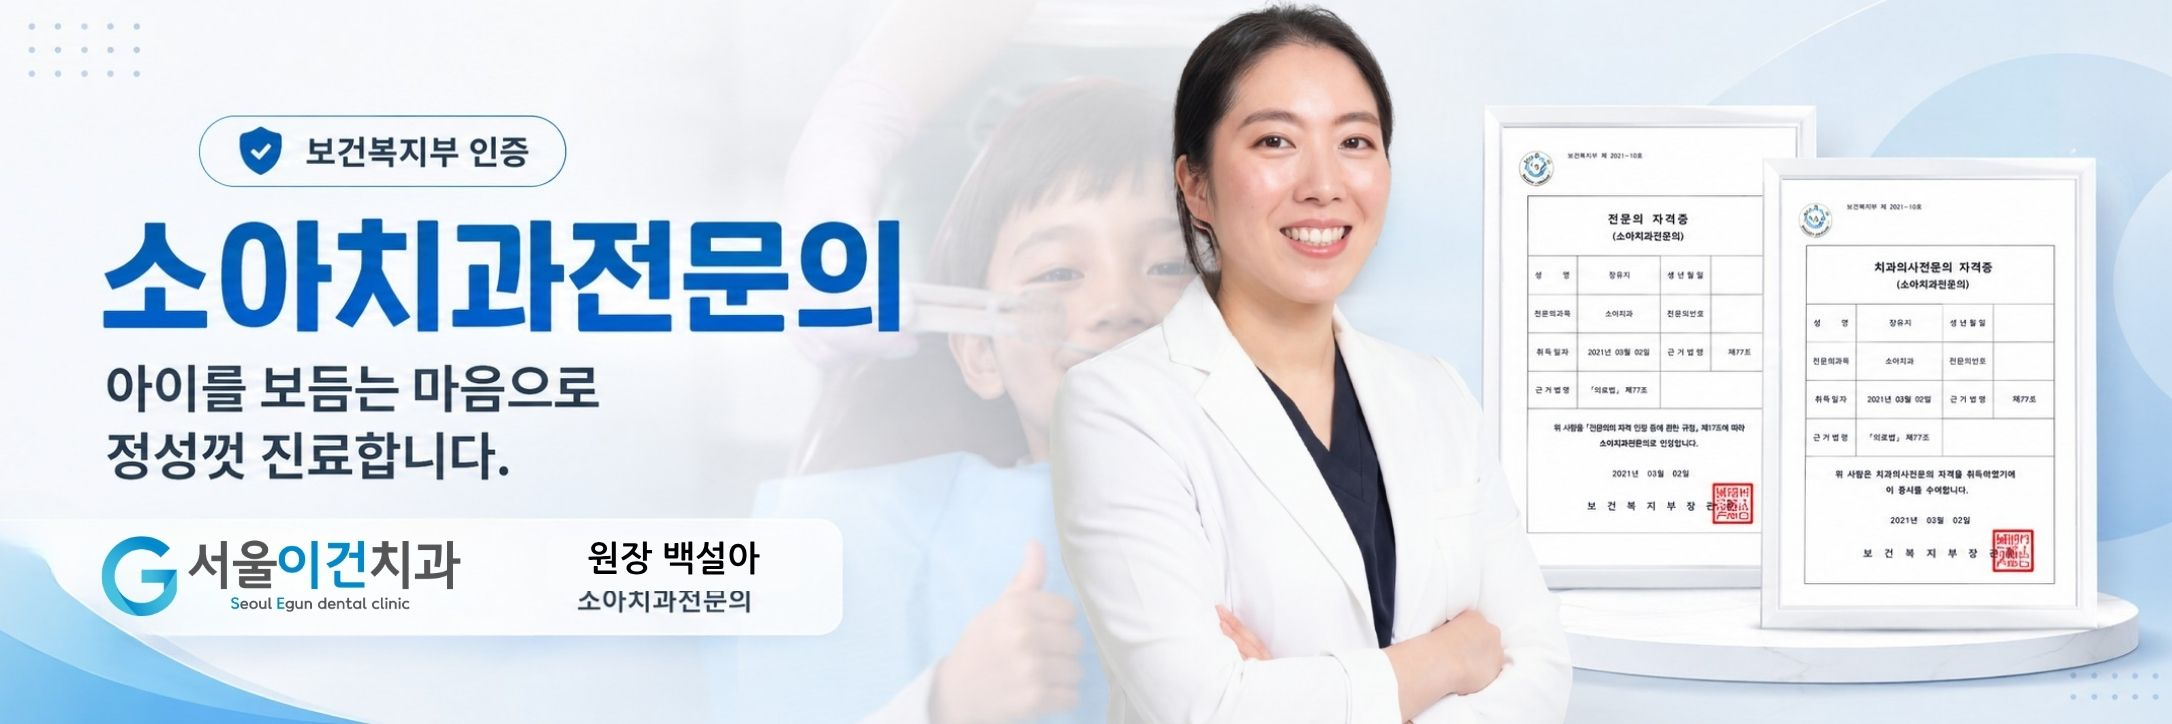
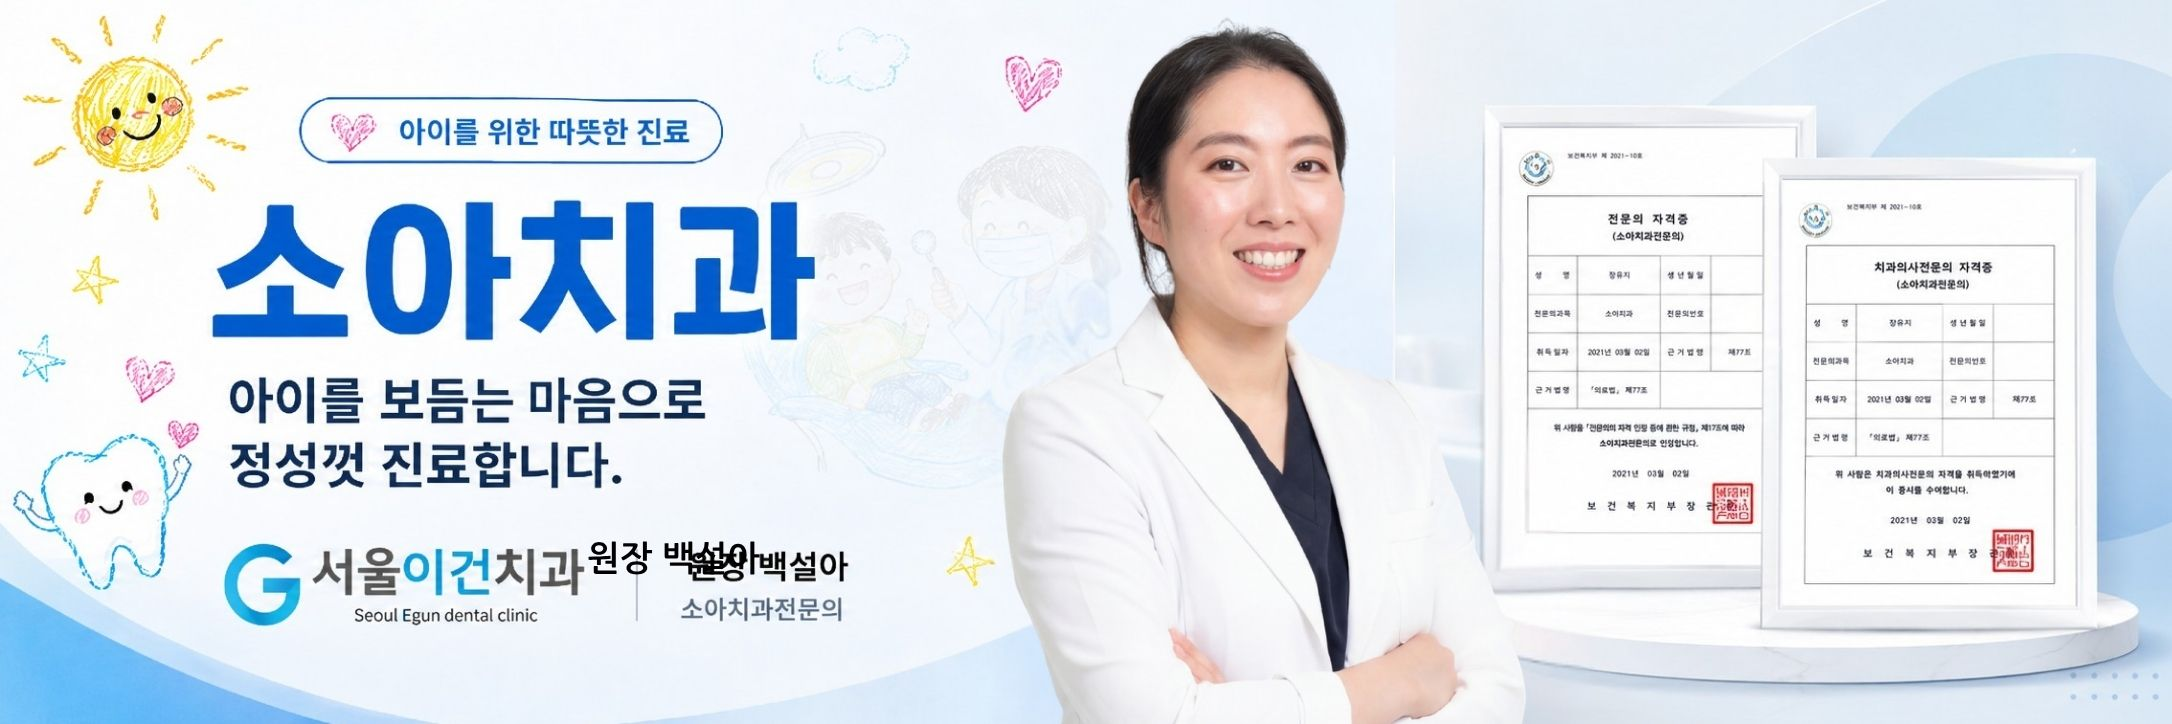
feat: 소아치과 히어로 배너 교체 + 게시판 배경 적용
- 소아치과 메인 히어로 baek-child.jpg 신규 배너로 교체
- 페이지 전역 배경(child-background.png) 적용
- 정체성 섹션(BoardIdentityLayout)에 transparent 옵션 추가 → 소아치과에서 배경 비치도록

Changed region(s): [[0.0, 0.0, 0.7403, 1.0], [0.6786, 0.7901, 0.7095, 0.8204]]

diff --git a/app/pediatric/page.tsx b/app/pediatric/page.tsx
@@ -15,13 +15,23 @@ export const metadata: Metadata = {
 
 export default function PediatricPage() {
   return (
-    <TreatmentPage
-      title="수원 소아치과 진료 안내"
-      subtitle="아이의 치아 성장과 구강 관리를 함께 살펴봅니다"
-      treatments={pediatricTreatments}
-      hideCases
-      heroReplacement={<PediatricCredentialSection />}
-      extraSection={<PediatricIdentity />}
-    />
+    <div
+      className="pediatric-page"
+      style={{
+        backgroundImage: "url('/images/m/icons/child-background.png')",
+        backgroundRepeat: 'repeat-y',
+        backgroundSize: '100% auto',
+        backgroundPosition: 'top center',
+      }}
+    >
+      <TreatmentPage
+        title="수원 소아치과 진료 안내"
+        subtitle="아이의 치아 성장과 구강 관리를 함께 살펴봅니다"
+        treatments={pediatricTreatments}
+        hideCases
+        heroReplacement={<PediatricCredentialSection />}
+        extraSection={<PediatricIdentity />}
+      />
+    </div>
   )
 }

diff --git a/components/board/BoardIdentityLayout.tsx b/components/board/BoardIdentityLayout.tsx
@@ -12,13 +12,14 @@ interface BoardIdentityLayoutProps {
   title: React.ReactNode
   description: React.ReactNode
   pillars: Pillar[]
+  transparent?: boolean   // 페이지 배경이 비치도록 흰 배경 제거 (소아치과 등)
 }
 
-export default function BoardIdentityLayout({ label, title, description, pillars }: BoardIdentityLayoutProps) {
+export default function BoardIdentityLayout({ label, title, description, pillars, transparent = false }: BoardIdentityLayoutProps) {
   const { ref, isVisible } = useScrollReveal(0.15)
 
   return (
-    <section className="py-16 sm:py-24 bg-white border-b border-gray-100">
+    <section className={`py-16 sm:py-24 border-b border-gray-100 ${transparent ? '' : 'bg-white'}`}>
       <div ref={ref} className="max-w-7xl mx-auto px-4 sm:px-6 lg:px-8">
 
         <p className={`text-sm font-semibold tracking-[0.25em] uppercase text-[#0080C8] mb-4 ${isVisible ? 'domino-rise' : 'domino-hidden'}`}>

diff --git a/components/board/PediatricIdentity.tsx b/components/board/PediatricIdentity.tsx
@@ -31,6 +31,7 @@ export default function PediatricIdentity() {
   return (
     <>
       <BoardIdentityLayout
+      transparent
       label="PEDIATRIC DENTISTRY"
       title={<>아이의 첫 치과,<br /><span className="text-[#0080C8]">평생 구강 건강의 시작</span></>}
       description={<>아이가 치과를 무서워하지 않도록 하는 것이 먼저입니다.<br />편안한 첫 경험이 평생의 구강 건강 습관을 만들고,<br />소아 전문의가 성장 단계마다 함께합니다.</>}
